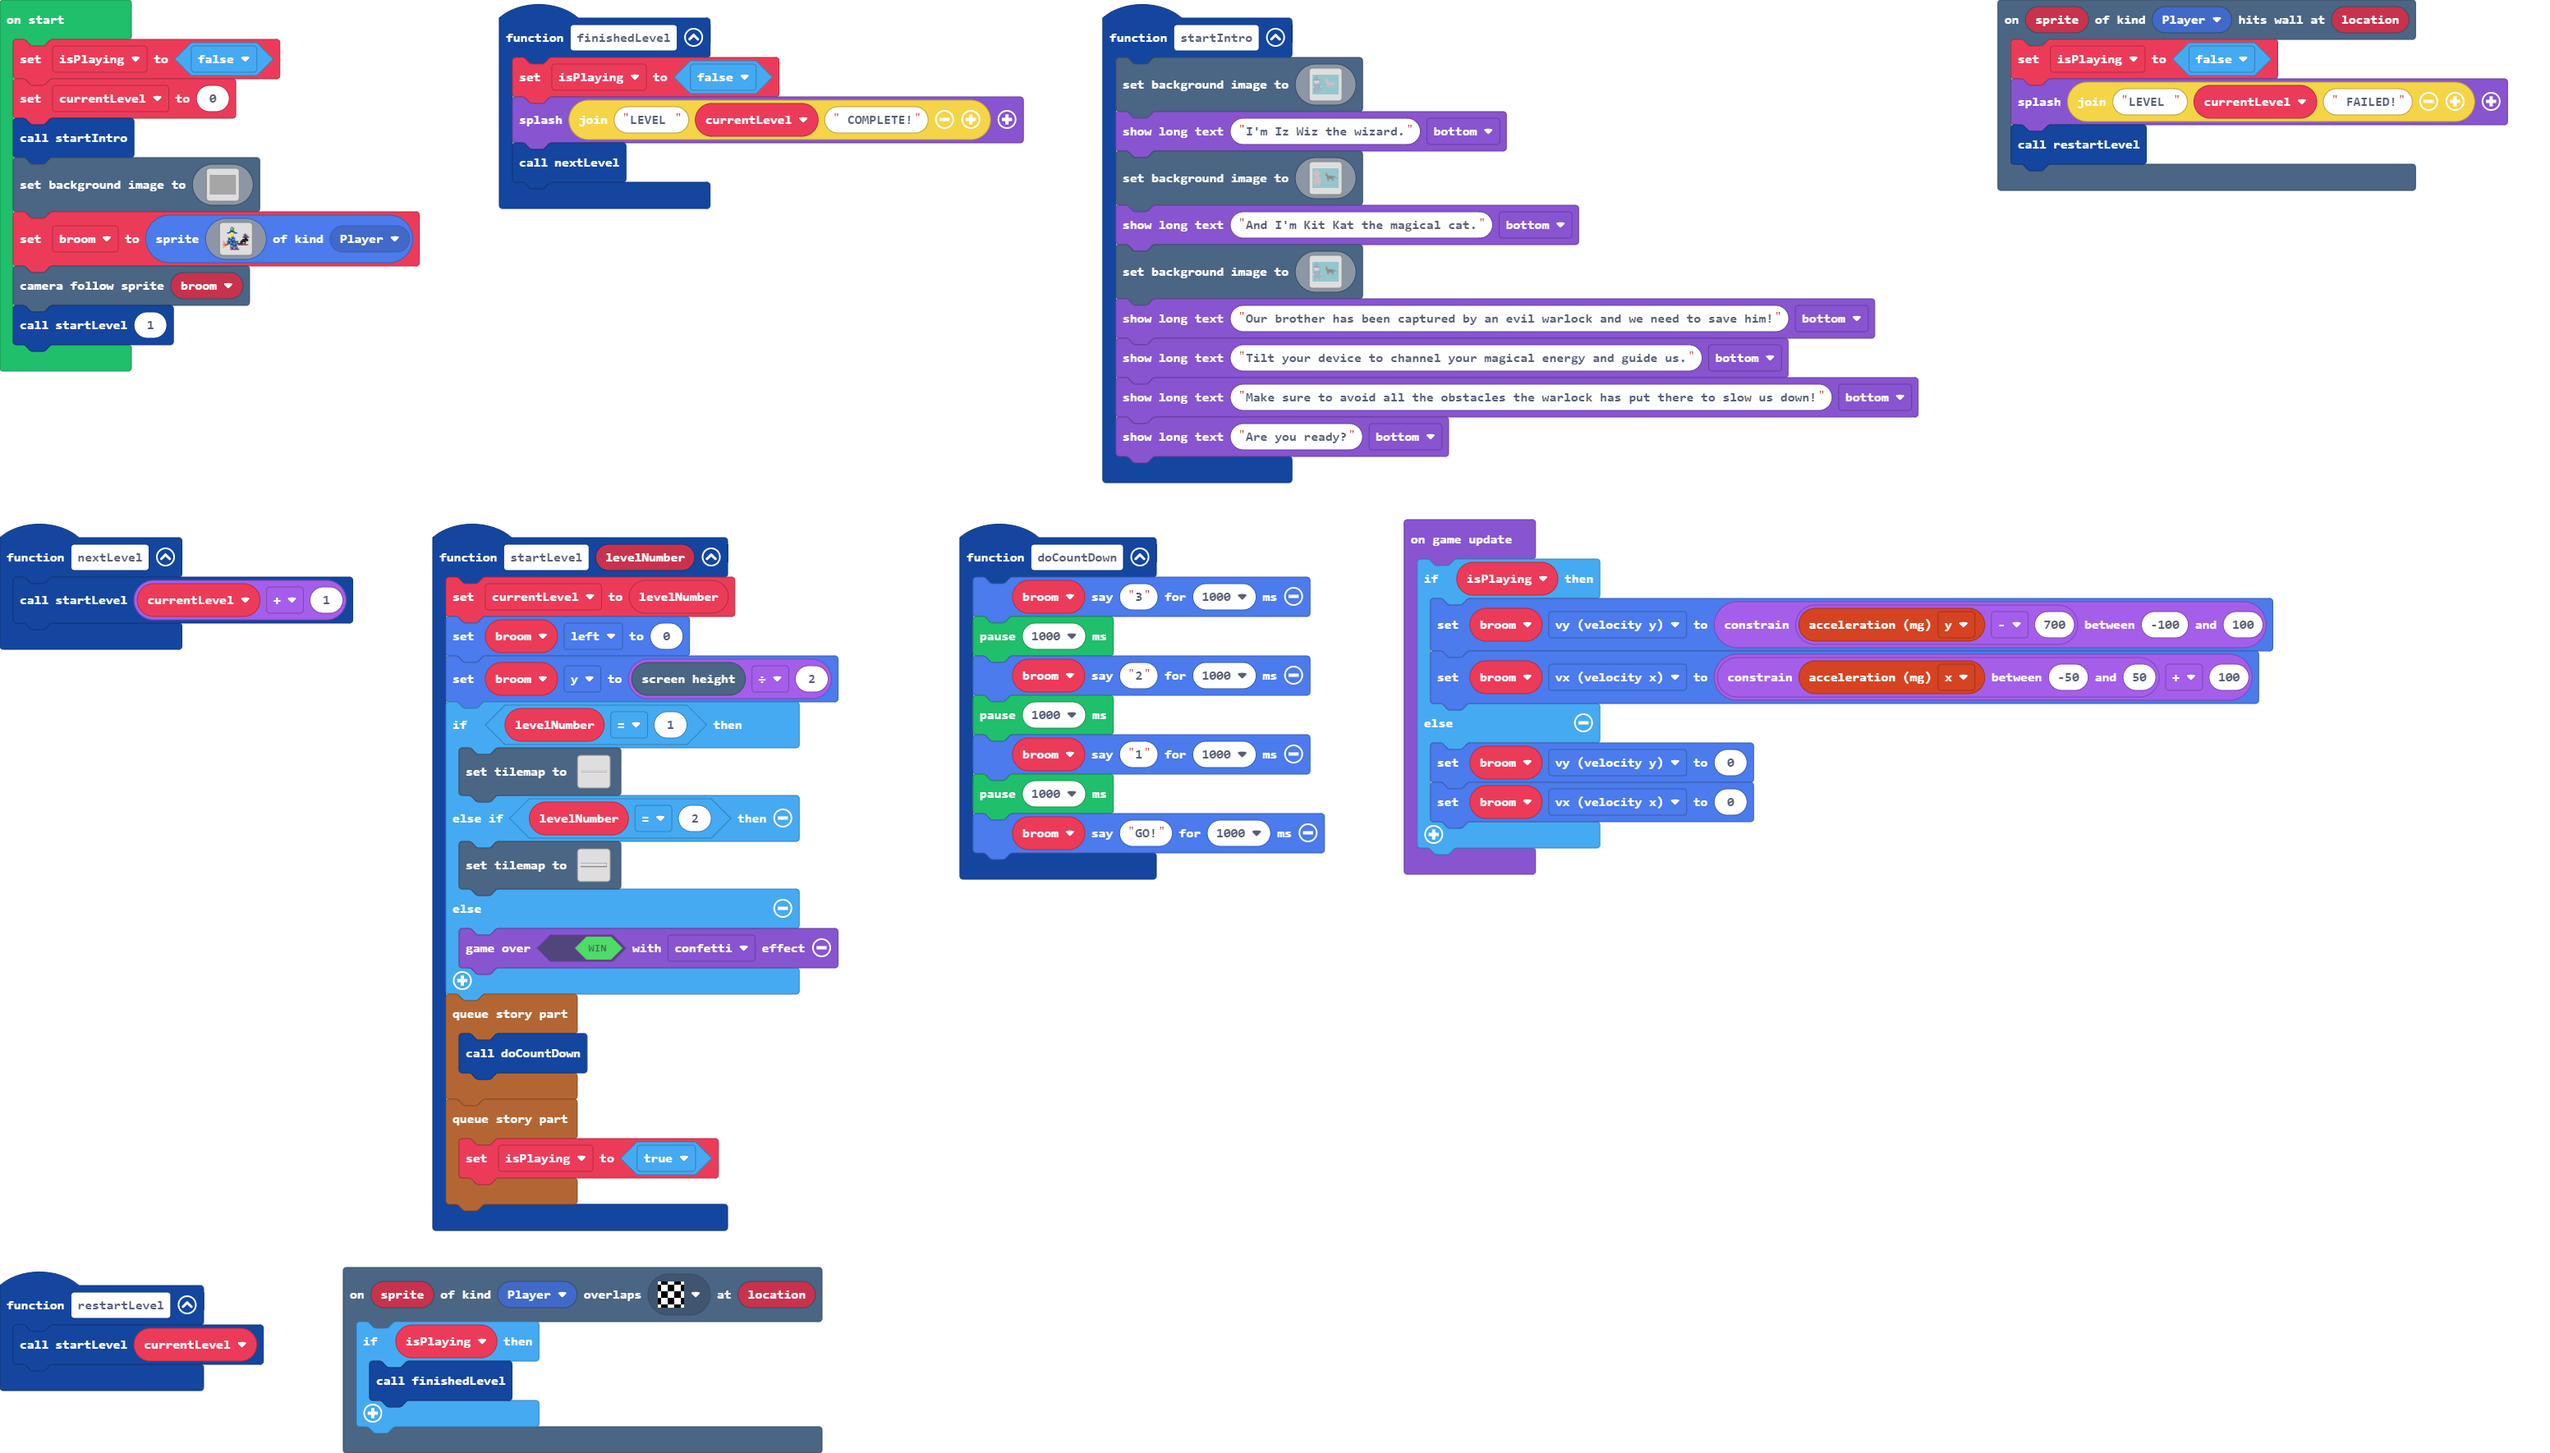
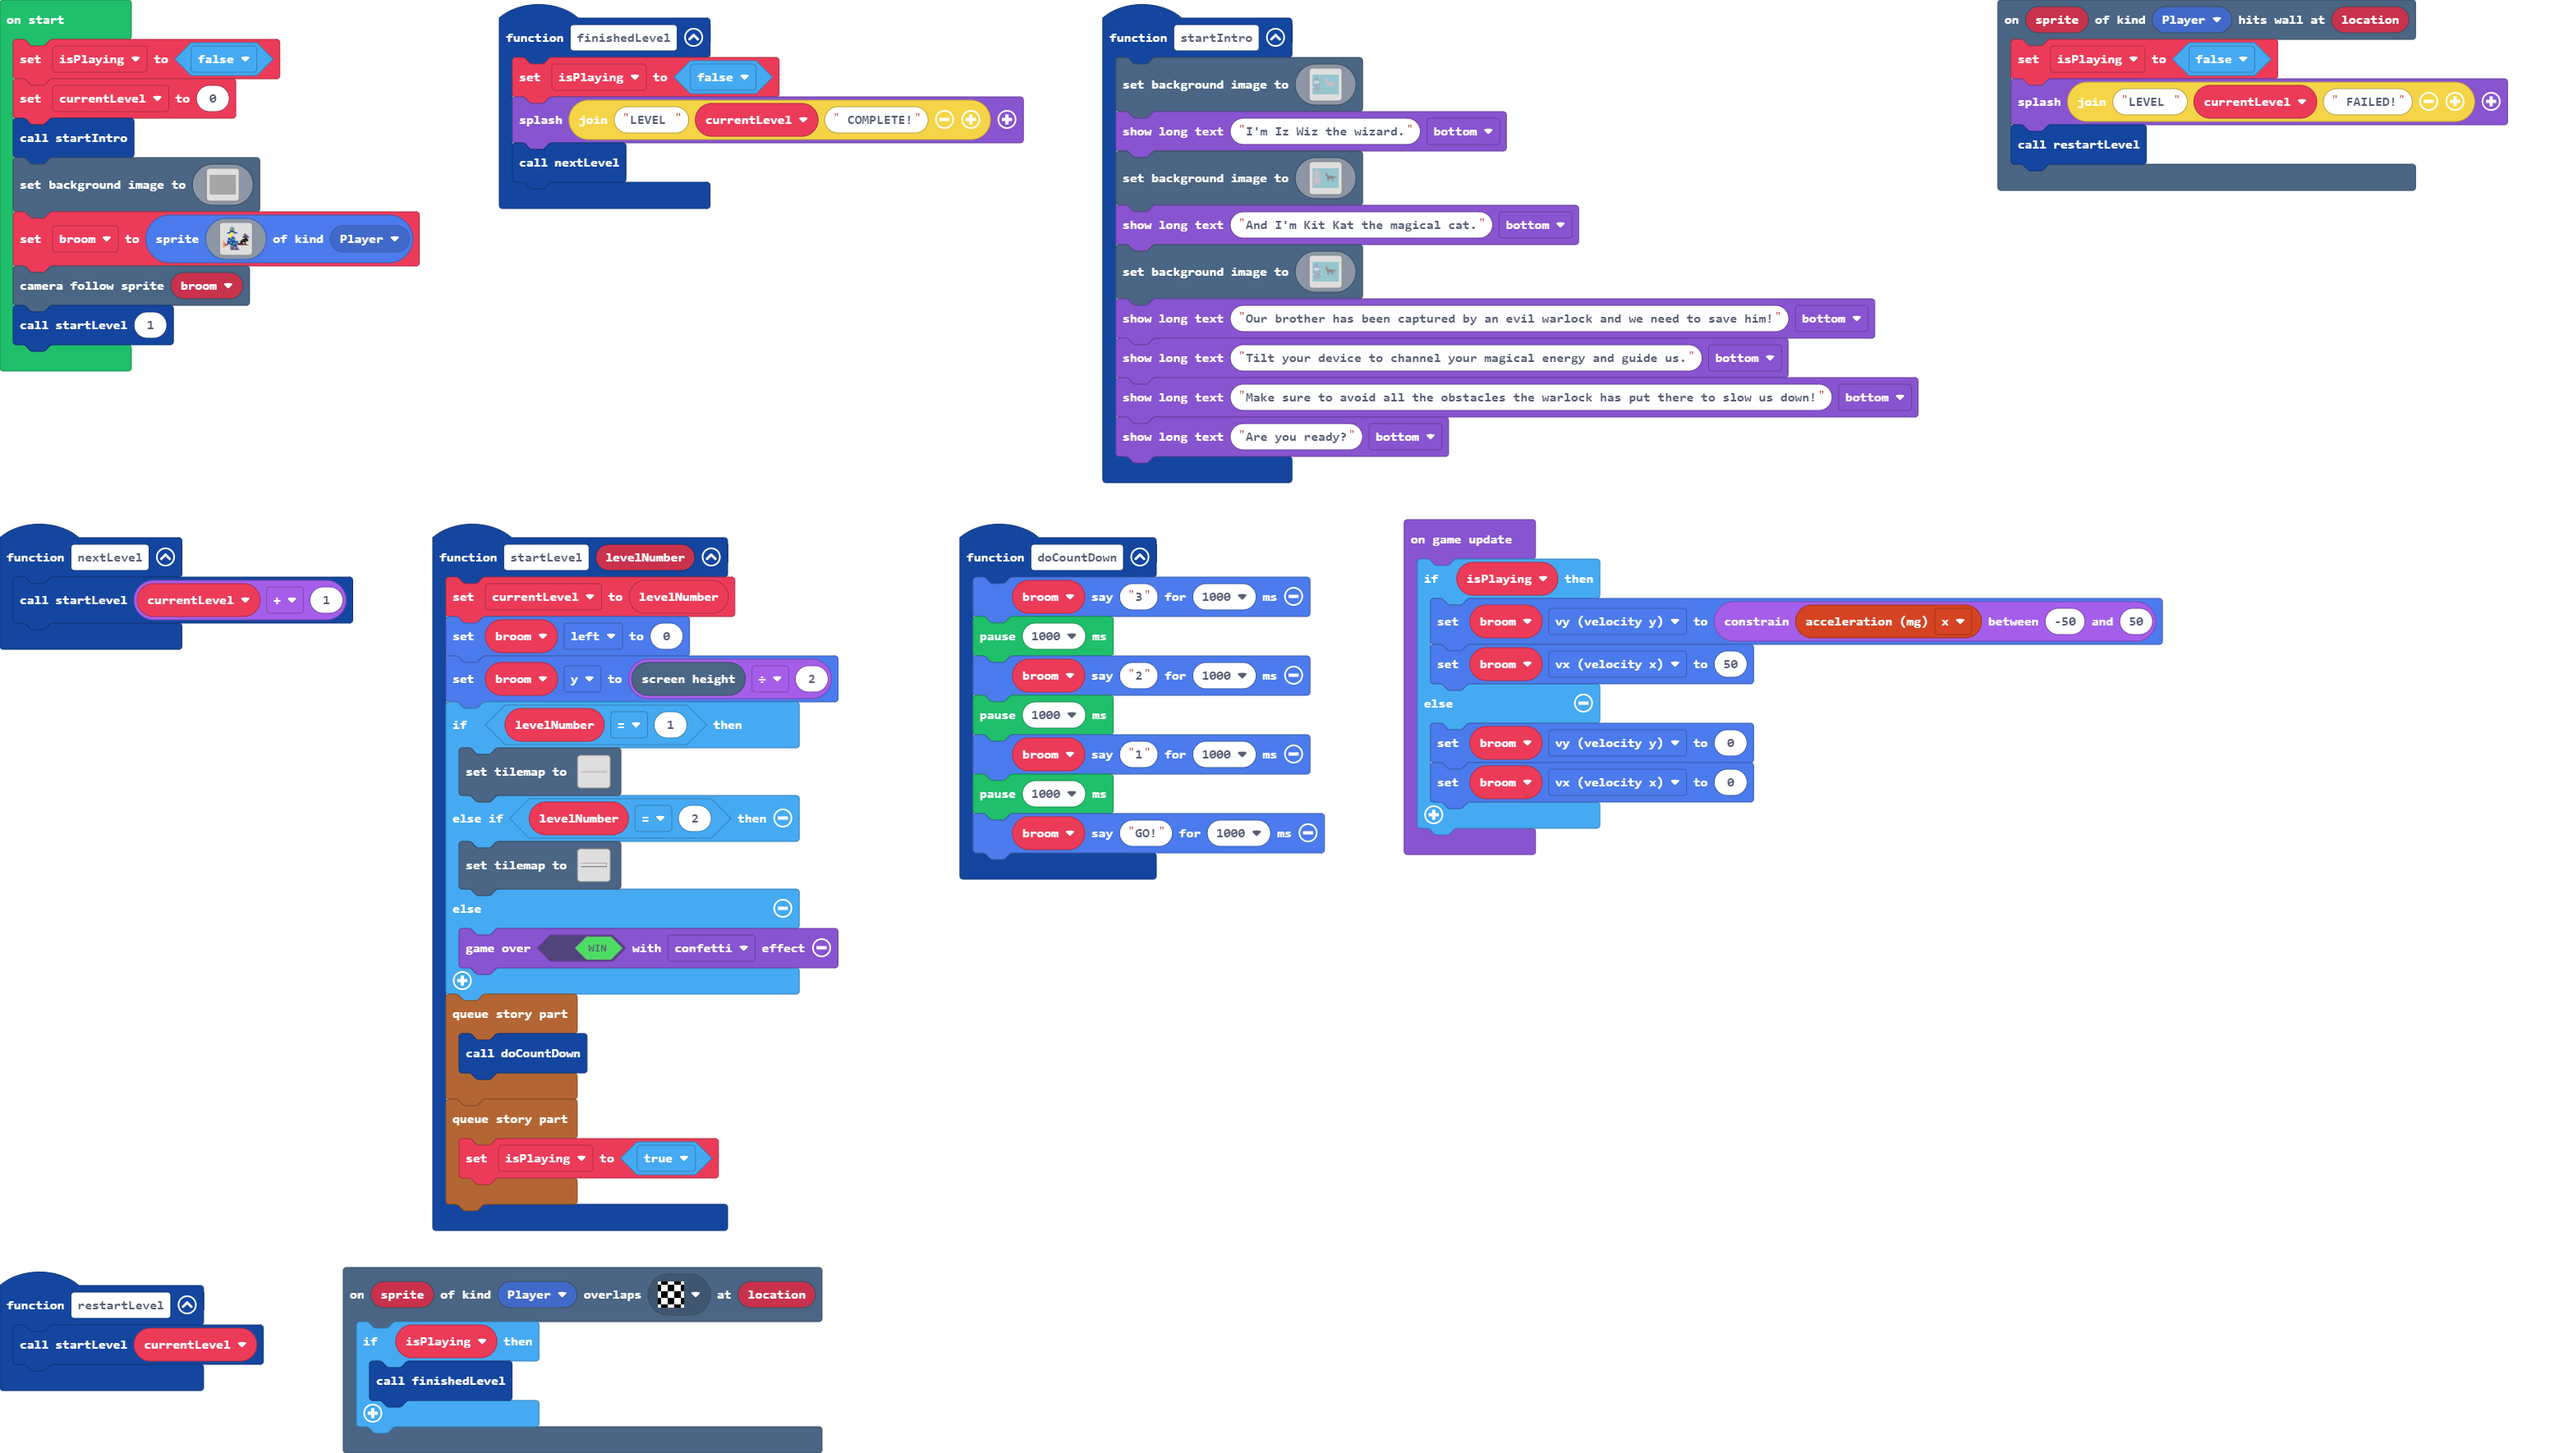
Slow player down. Change to control up-down with x-axis.

Changed region(s): [[0.5311, 0.404, 0.906, 0.6215]]

diff --git a/main.ts b/main.ts
@@ -578,8 +578,8 @@ scene.cameraFollowSprite(broom)
 startLevel(1)
 game.onUpdate(function () {
     if (isPlaying) {
-        broom.vy = Math.constrain(controller.acceleration(ControllerDimension.Y) - 700, -100, 100)
-        broom.vx = Math.constrain(controller.acceleration(ControllerDimension.X), -50, 50) + 100
+        broom.vy = Math.constrain(controller.acceleration(ControllerDimension.X), -50, 50)
+        broom.vx = 50
     } else {
         broom.vy = 0
         broom.vx = 0
